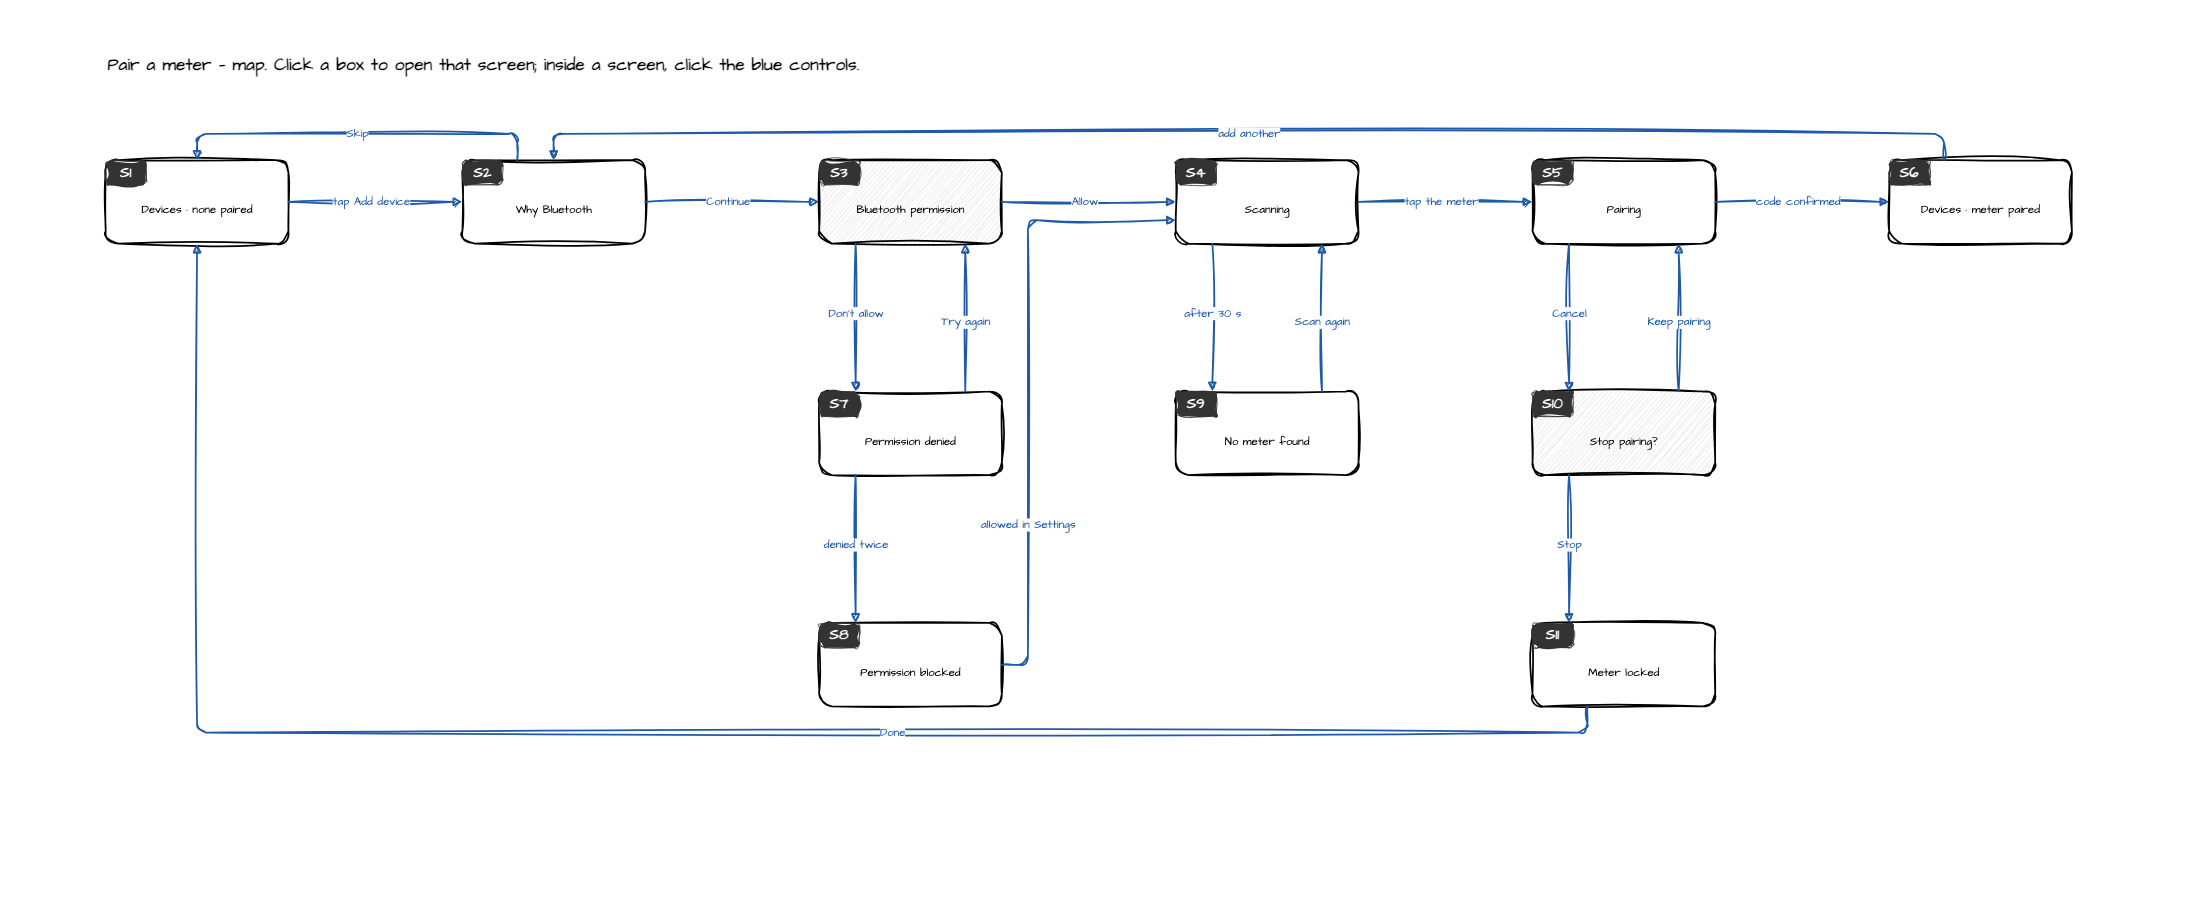
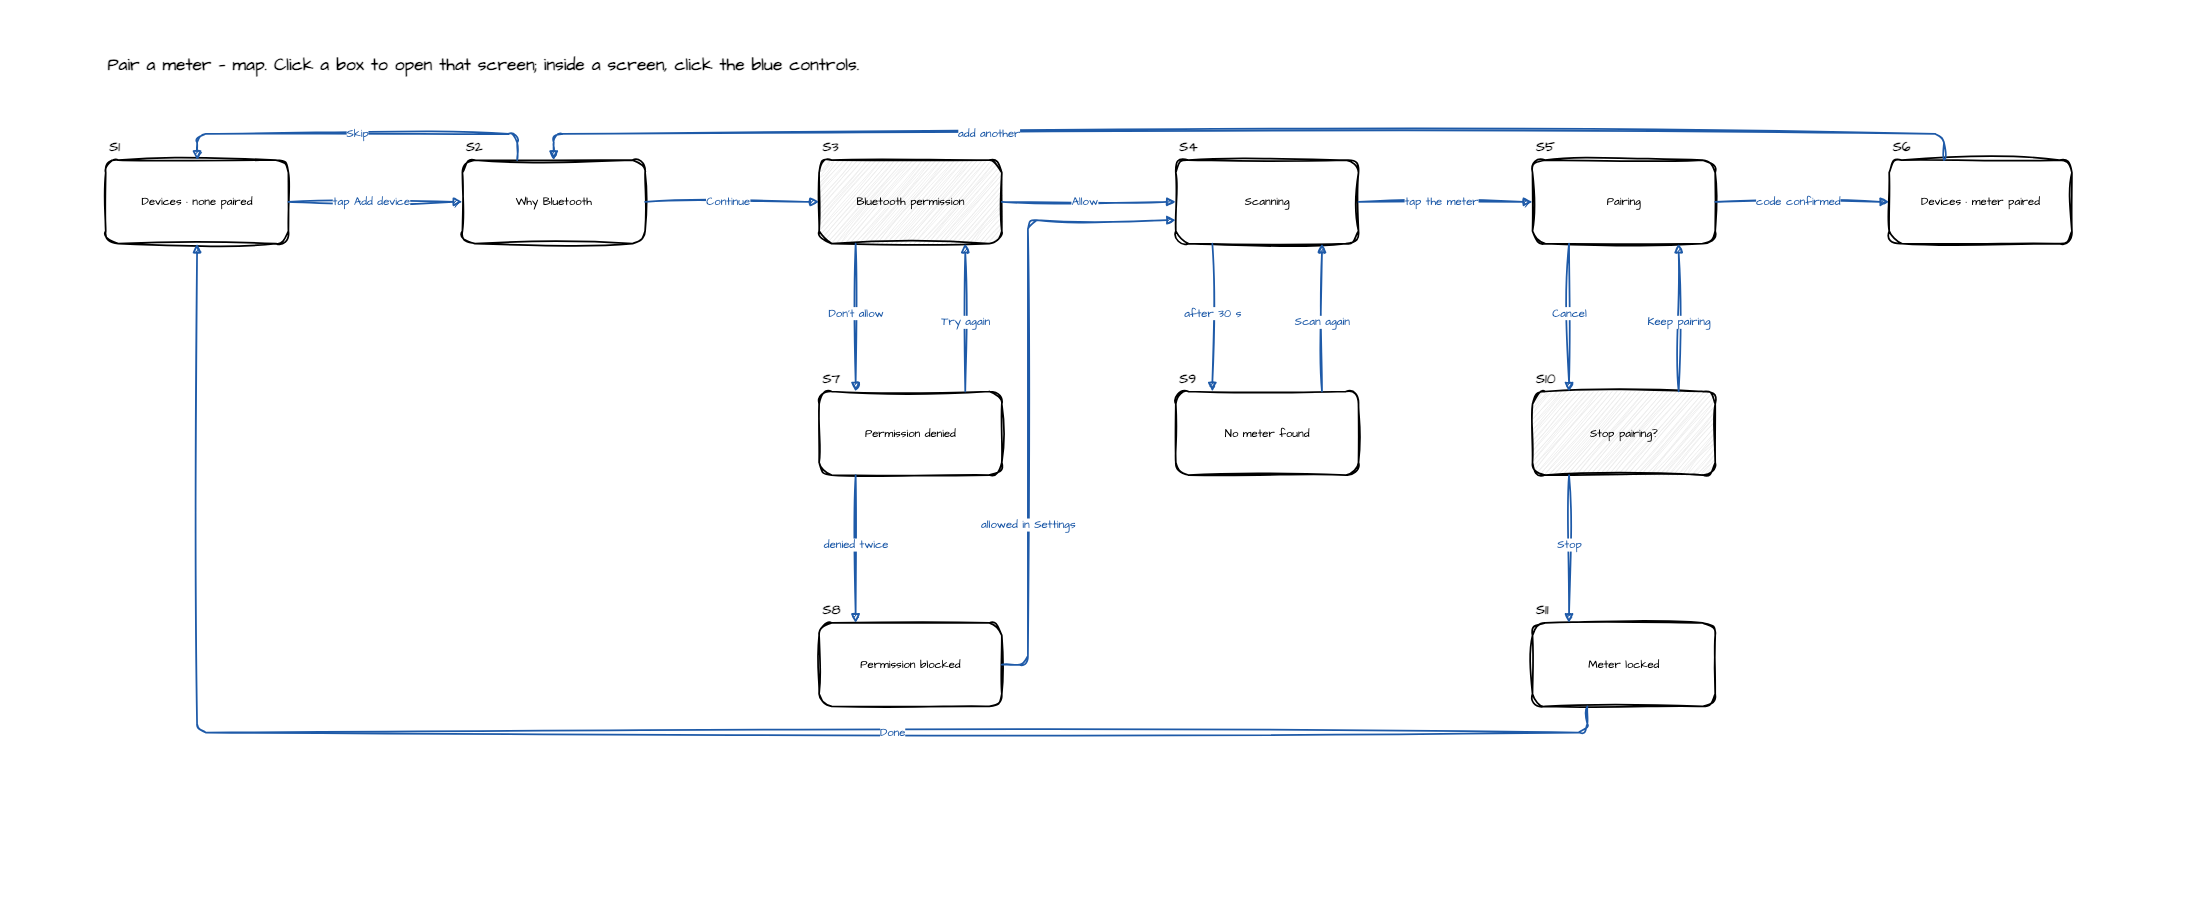
Write the screen number above the frame in the sketch font
The dark tag inside the frame's header could be unreadable in the VS Code
draw.io extension and sat where the back arrow goes. The number is now plain
text in the sketch font above the top-left corner of every frame and map
box, and arrows and arrow labels keep clear of it. Example diagrams and
pictures regenerated.

diff --git a/skills/mobile-prototype/SKILL.md b/skills/mobile-prototype/SKILL.md
@@ -29,8 +29,11 @@ Paths in this file are relative to this skill's directory (`scripts/…`, `refer
 4. **Rough on purpose.** The sketch uses plain boxes in a hand-drawn style. No brand colours, no
    real components, no pixel decisions before the flow is locked.
 5. **Numbered and untangled.** Every screen frame carries a serial number (S1, S2, … in flow
-   order, shown as a dark tag in its top-left corner), and people refer to screens by it everywhere: chat, notes, the final-look screens, the
-   handoff. No two arrows share a line or cross each other, no arrow runs over a screen, no two
+   order). It is written above the frame's top-left corner in the sketch font, outside the
+   screen, so it can't be taken for an app control or cover the back arrow. People refer to
+   screens by it everywhere: chat, notes, the final-look screens, the handoff. Anything you add
+   for the reviewer (a number, a remark) goes outside the phone frame or in the frame's `note`,
+   in the same sketch style; nothing inside a frame may be review markup. No two arrows share a line or cross each other, no arrow runs over a screen, no two
    screens sit on top of each other, and every arrow label sits clear of screens, arrows and
    other labels. `sketch.mjs` finds such a drawing or refuses to draw; never show a sketch that
    didn't pass `--check`, and fix a failure in `flow.json` (see "When the check fails" in

diff --git a/README.md b/README.md
@@ -19,8 +19,9 @@ Idea / PRD → clarify flow and decisions → rough screens + state branches →
   - **Click-through**: a small map, then one page per screen; clicking a button jumps to the
     screen it leads to.
   - **Both** in one file.
-- Every screen state carries a **number tag in flow order** (S1, S2, …), used everywhere a
-  screen is mentioned: in chat, in the notes, on the final-look screens and in the handoff.
+- Every screen state carries a **number in flow order** (S1, S2, …), written above its frame
+  and used everywhere a screen is mentioned: in chat, in the notes, on the final-look screens
+  and in the handoff.
 - The drawing is **untangled, or it isn't drawn**: no two arrows overlap or cross, no arrow runs
   over a screen, and every arrow label sits clear of screens, arrows and other labels.
 - The file opens in draw.io Desktop, the draw.io extension for VS Code, or app.diagrams.net. Edit

diff --git a/skills/mobile-prototype/references/sketch-spec.md b/skills/mobile-prototype/references/sketch-spec.md
@@ -109,8 +109,9 @@ Every frame except the first needs at least one flow leading to it.
 
 ## What the script guarantees
 
-- numbering in flow order: a dark tag with the number (S1, S2, …) in the top-left corner of
-  every frame and map box, and the number in every page tab;
+- numbering in flow order: the number (S1, S2, …) above the top-left corner of every frame and
+  map box, as plain text in the sketch font, and in every page tab. It sits outside the screen,
+  and arrows and arrow labels keep clear of it;
 - a clean drawing, or none. Each arrow goes straight to the next frame or straight up or down to
   a branch where it can; otherwise the script tries the routes it knows (around the side, along
   a lane between the rows, the long way round the page) and keeps one that lies on no other

diff --git a/skills/mobile-prototype/references/sketch-review.md b/skills/mobile-prototype/references/sketch-review.md
@@ -36,6 +36,9 @@ what a script can't judge. Go through it against
 - Texts fit their boxes. If a label is cut off in the diagram, shorten it.
 - Nothing suggests a visual decision: no colours, fonts or icon choices beyond what the script
   draws.
+- Review markup stays outside the screens. The S-number sits above each frame; remarks go in a
+  frame's `note`. Don't add tags, badges or plain-font text by hand: if something the reviewer
+  needs is missing or hard to read, change the script or the spec so every sketch gets it.
 
 ## Platforms
 
